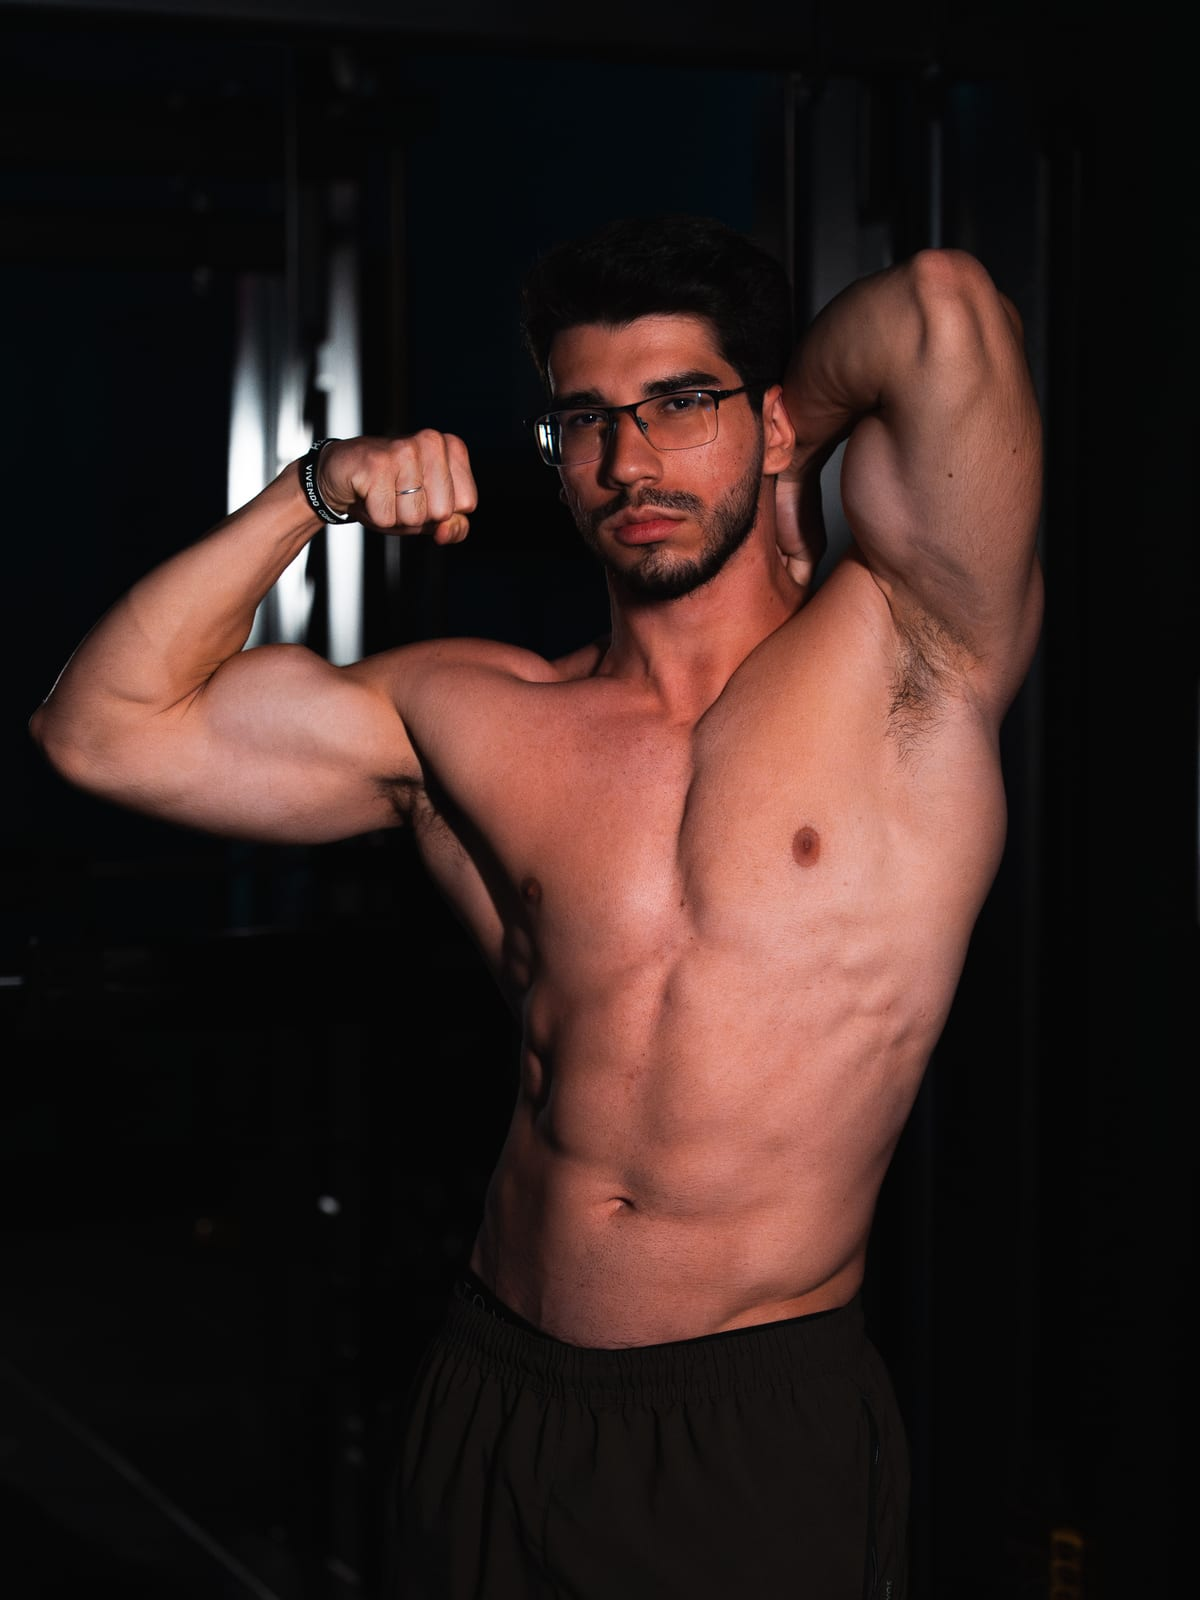
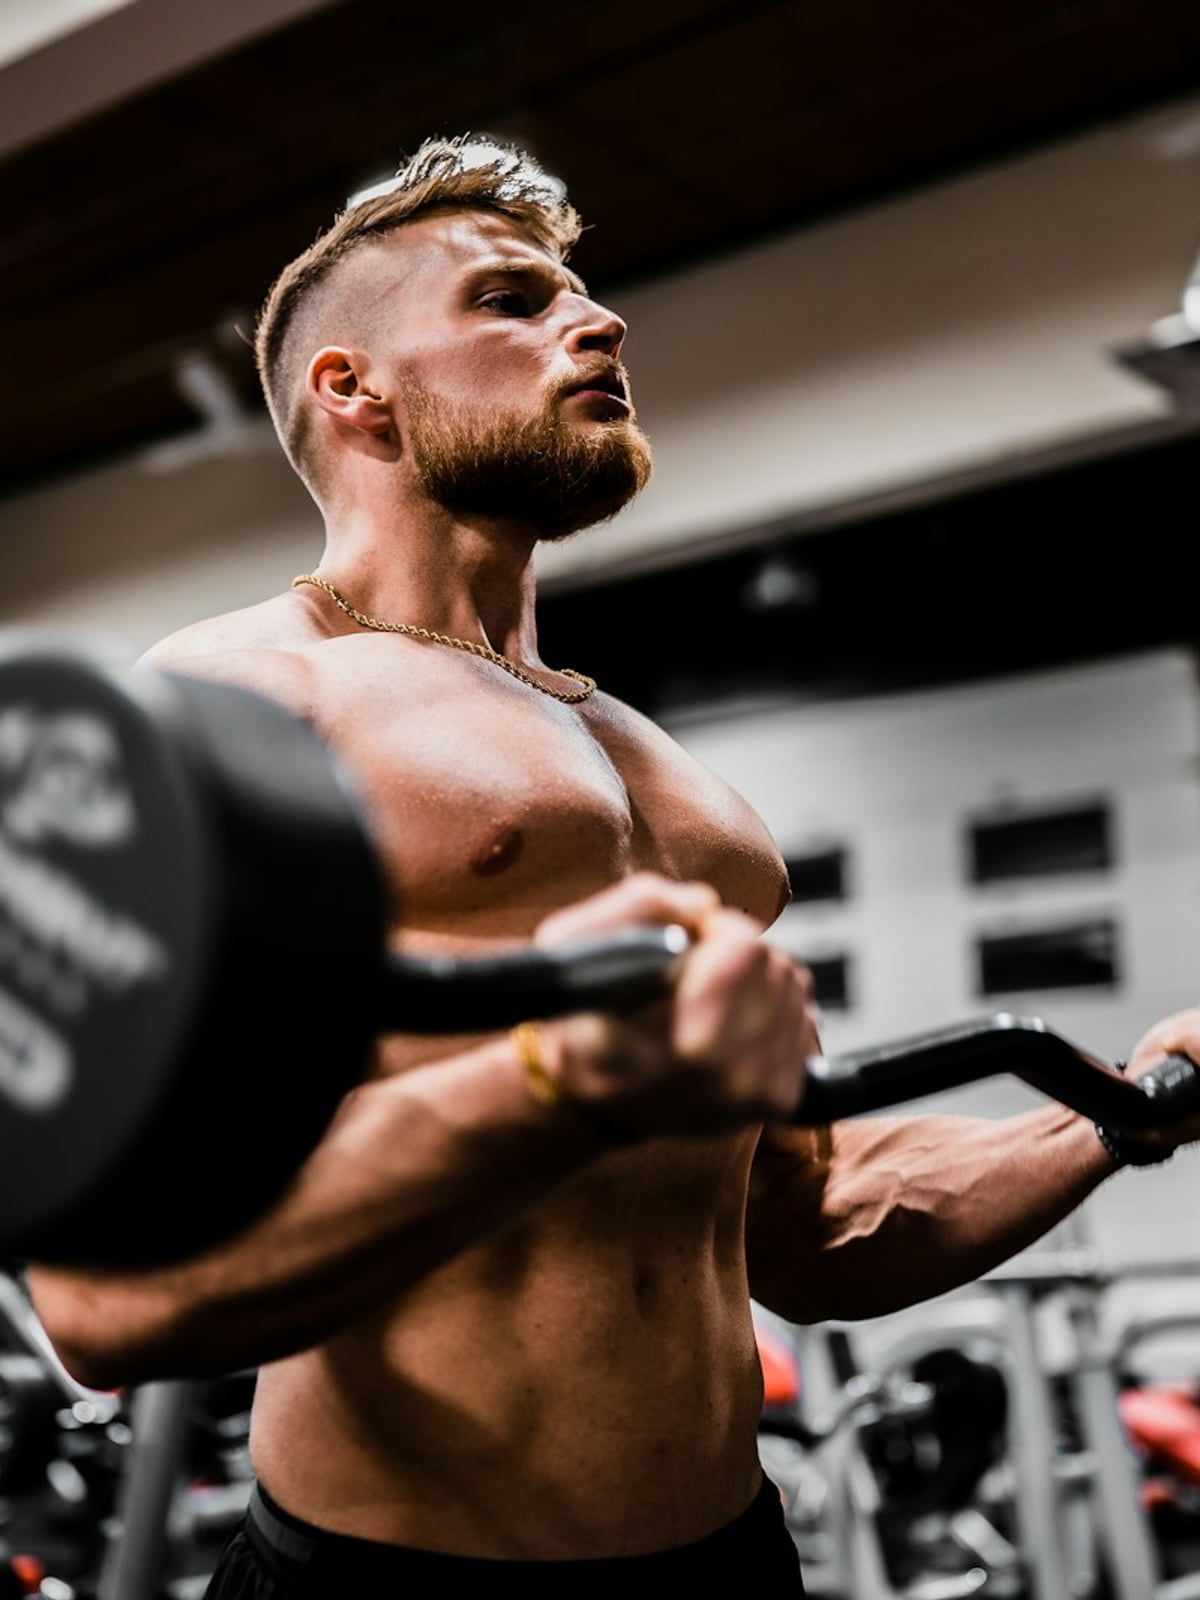
feat(metodo): fotos temáticas dos 3 pilares (não do Igor)
Substitui as fotos personais do Igor por imagens condizentes com cada pilar:
- 01 Treino Avançado: homem fazendo rosca com barra em academia
- 02 Alimentação Simplificada: meal prep com ovos, bacon, abacate, verduras
- 03 O Elemento Fundamental: corredor em explosão de largada na pista

Todas Unsplash (CC), 1200x1600, JPEG mozjpeg q84.

diff --git a/src/content/desafio.ts b/src/content/desafio.ts
@@ -123,7 +123,7 @@ export const pilares: Pilar[] = [
       texto:
         'Não adianta apenas treinar, é preciso intensificar os exercícios, seguindo uma estratégia eficiente e validada.',
     },
-    foto: { src: '/img/metodo-01.jpg', alt: 'Igor Correa flexionando o bíceps em ambiente de treino' },
+    foto: { src: '/img/metodo-01.jpg', alt: 'Homem fazendo rosca com barra em ambiente de treino' },
   },
   {
     numero: '02',
@@ -131,7 +131,7 @@ export const pilares: Pilar[] = [
     paragrafos: [
       'Cansei de ver gente dificultando essa parte tão simples. Você vai ter um protocolo criado por uma nutricionista experiente para aprender a comer certo sem precisar virar escravo de dietas rigorosas.',
     ],
-    foto: { src: '/img/metodo-02.jpg', alt: 'Prato colorido de alimentação equilibrada' },
+    foto: { src: '/img/metodo-02.jpg', alt: 'Meal prep com ovos, bacon, abacate e verduras' },
   },
   {
     numero: '03',
@@ -139,7 +139,7 @@ export const pilares: Pilar[] = [
     paragrafos: [
       'Você vai derreter até 3x mais gordura de forma rápida e saudável. Quando você une a tríade: treino avançado, alimentação simplificada e um cardio estratégico e calculado, o abdômen insano não é mais um sonho distante, é uma realidade!',
     ],
-    foto: { src: '/img/metodo-03.jpg', alt: 'Igor Correa em pose de físico em ambiente de treino' },
+    foto: { src: '/img/metodo-03.jpg', alt: 'Corredor em explosão de largada em pista de atletismo' },
   },
 ];
 
